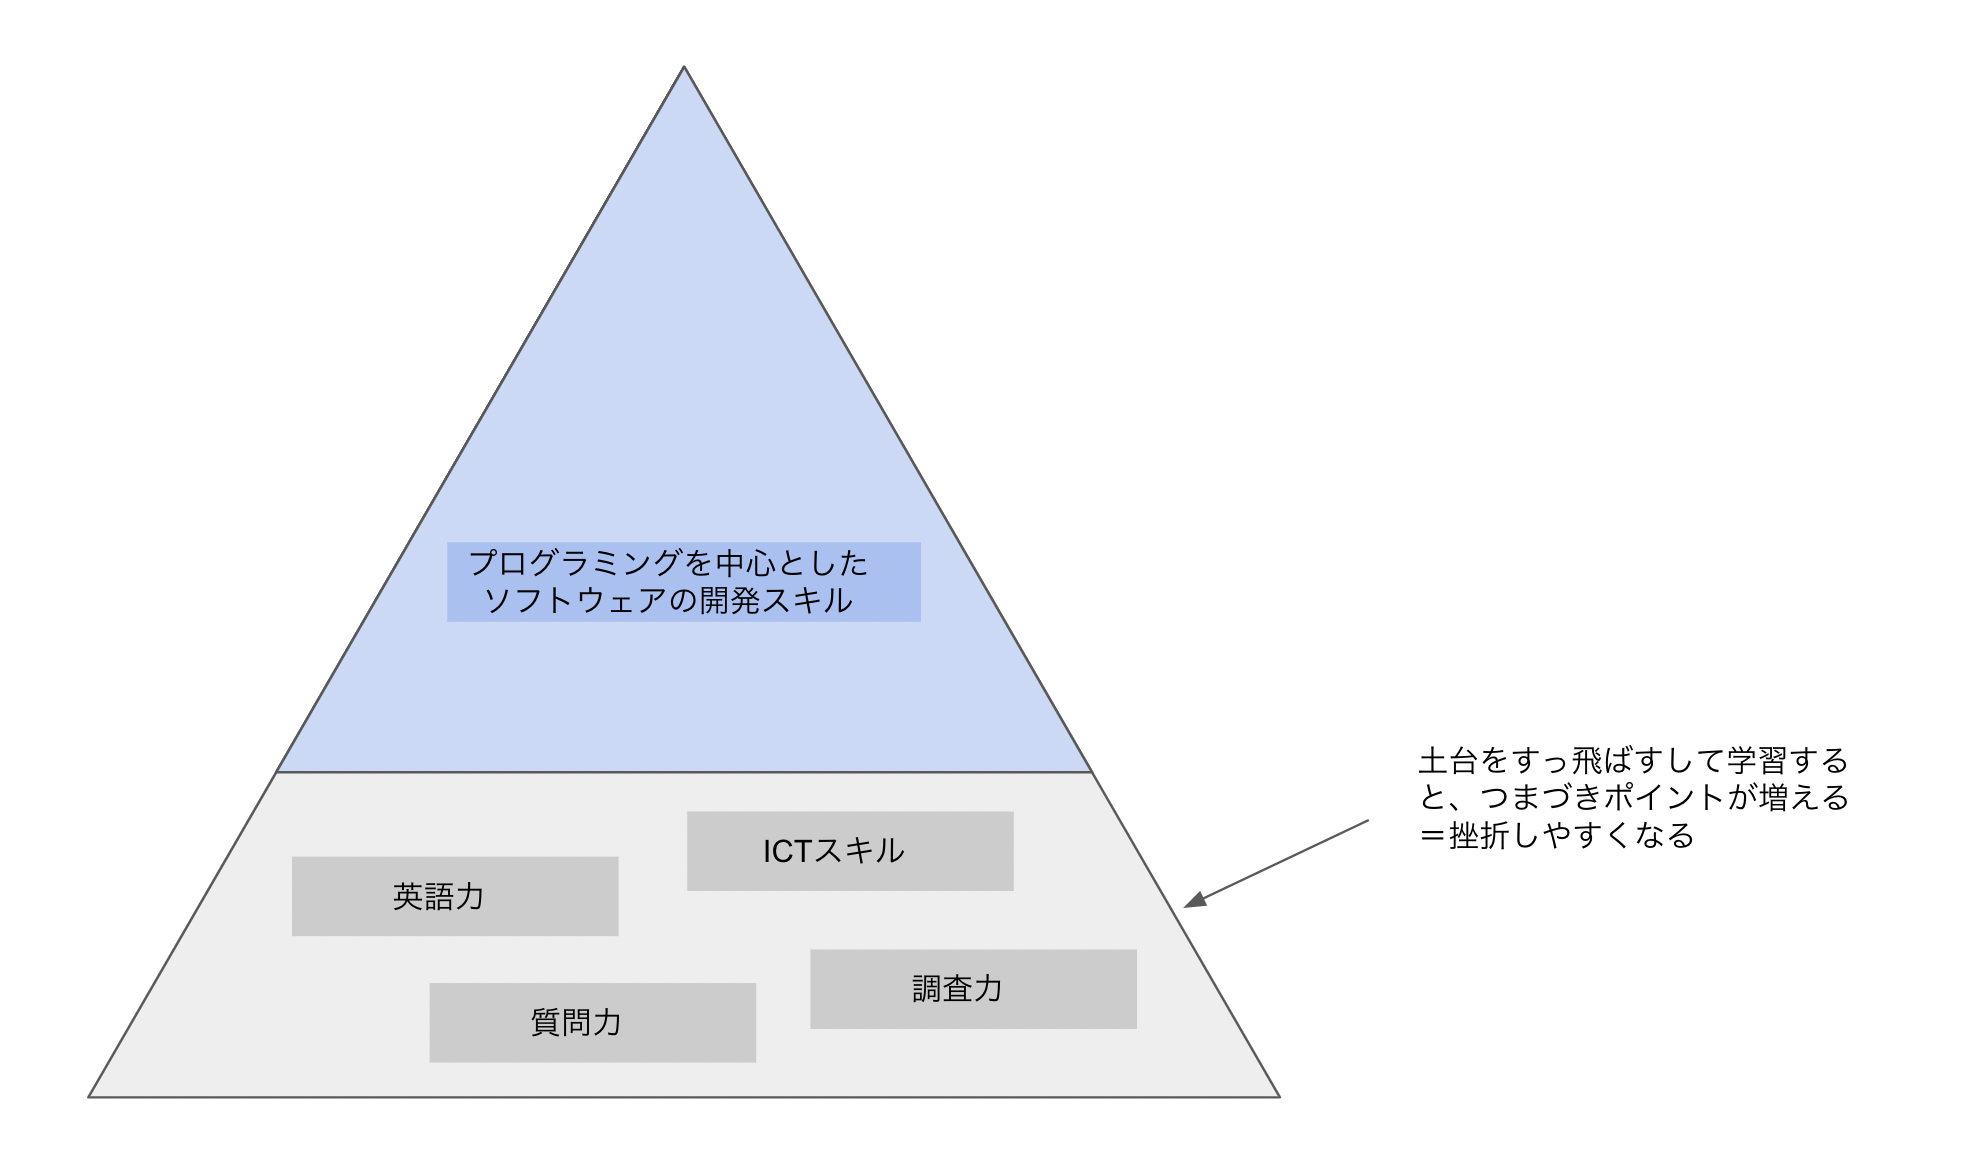
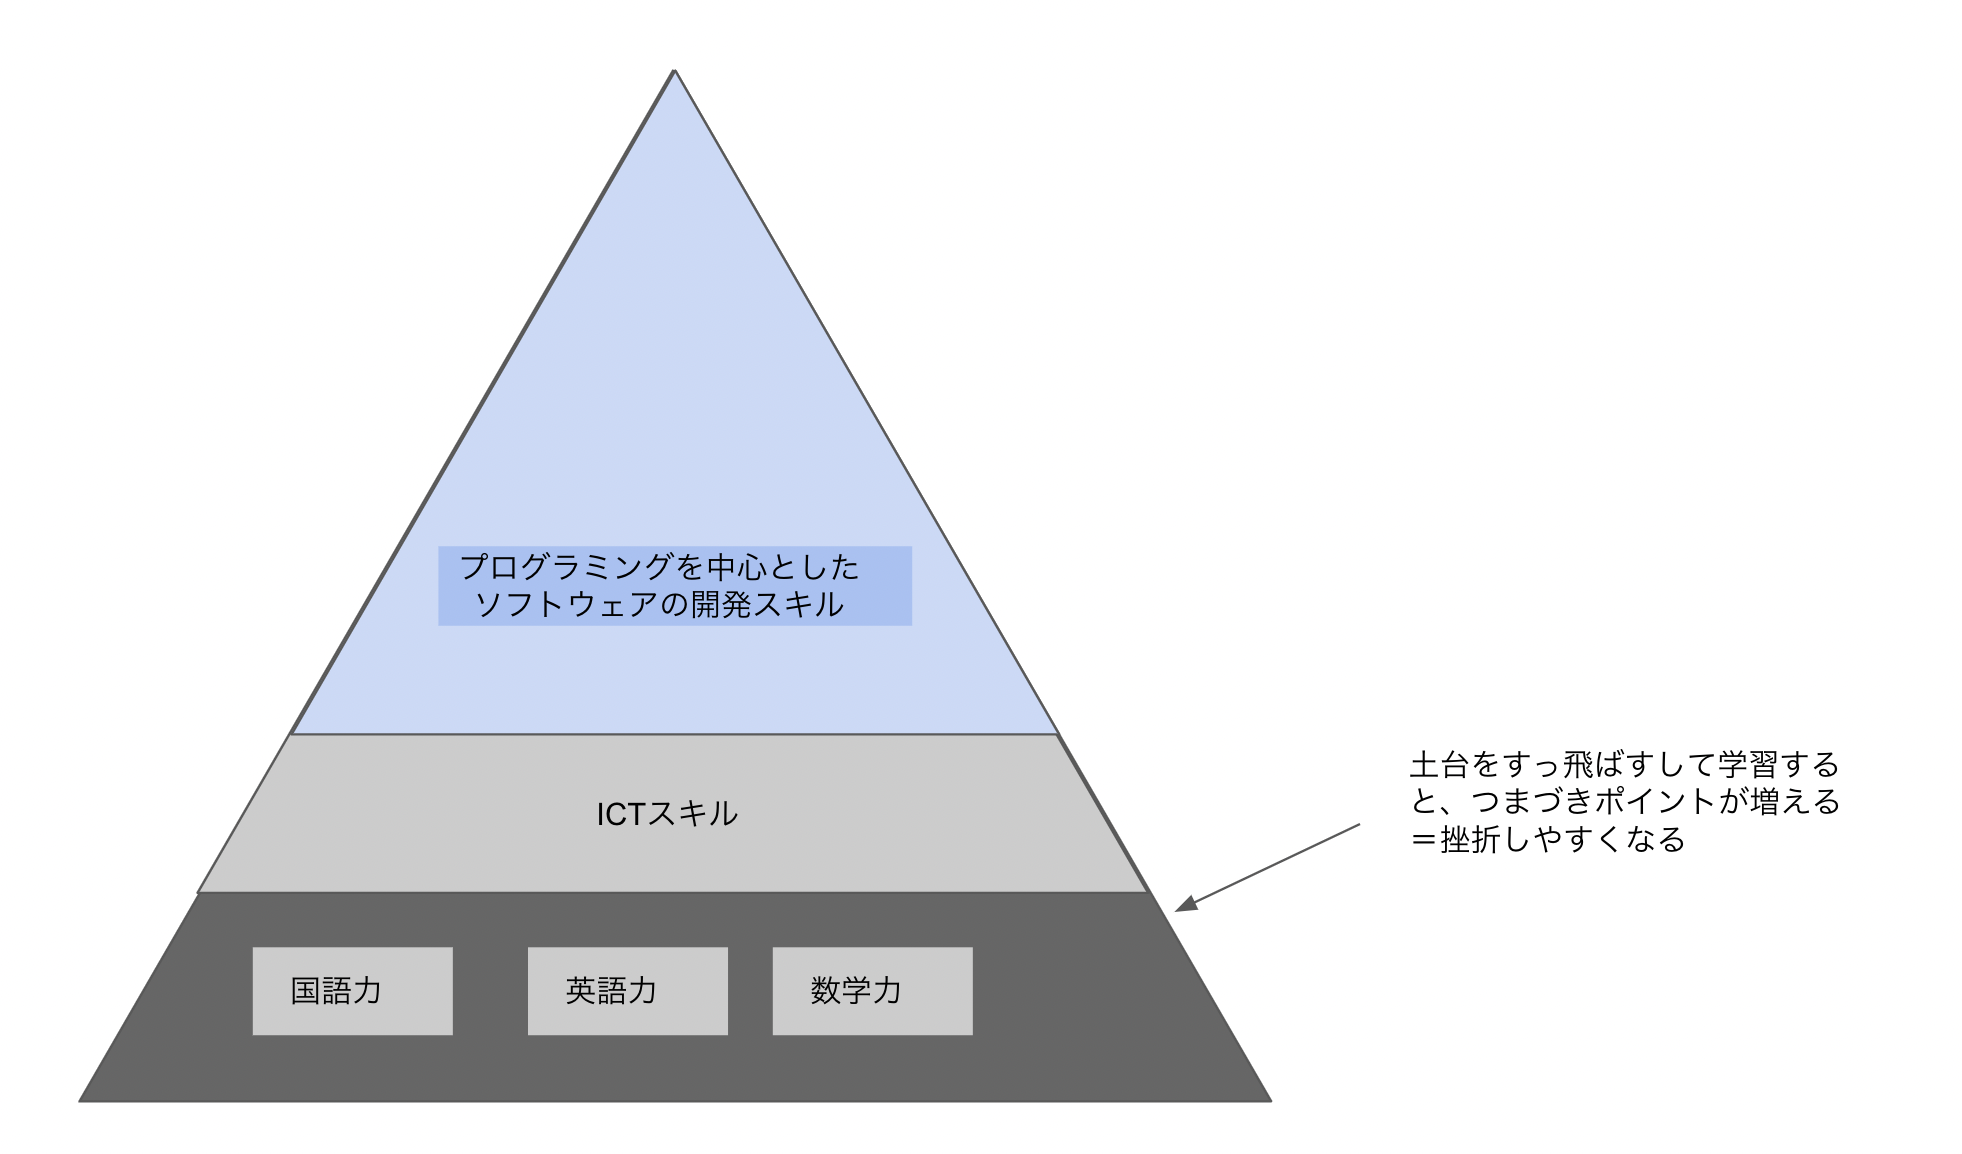
updated

diff --git a/Chapter 1.プログラミングの学び方/1.2.関連スキルを習得しよう.md b/Chapter 1.プログラミングの学び方/1.2.関連スキルを習得しよう.md
@@ -1,7 +1,9 @@
 # 関連スキルを習得しよう
 作文を書くには日本語の文法ルールや漢字や単語を一定以上知っておかないと書けなのと同様、プログラミングにもその前になければいけないスキルがあります。  
 これはプログラミングがコンピュータ、英語、論理的思考、算数など、複数の要素から成り立っているからです。
-はじめに概略だけお伝えすると、具体的には以下の2つです。
+
+## 関連スキルとは？
+はじめに概略だけお伝えすると、関連スキルとは具体的には以下の2つです。
 
 - ICTスキル
 - 基礎学力
@@ -12,6 +14,8 @@
 
 ただし、これらを同時並行で獲得することを強く推奨しますし、これらが身につくまでは平均的な学習者より苦労はするかもしれません。
 野球がやりたくて野球部に入ったらまずはランニングで基礎体力作りから始めるように、プログラミングにも学習するための土台がある程度必要です。
+
+![Alt text](<../Chapter 1.プログラミングの学び方/images/programming-skill-pilamid.png>)
 
 ## ICTスキル
 ICT(Information and Communication Technolog)スキルとは、PCをはじめとするテクノロジーを使ってコミュニケーションやビジネスに活かすことができる基礎的な技能のことです。
